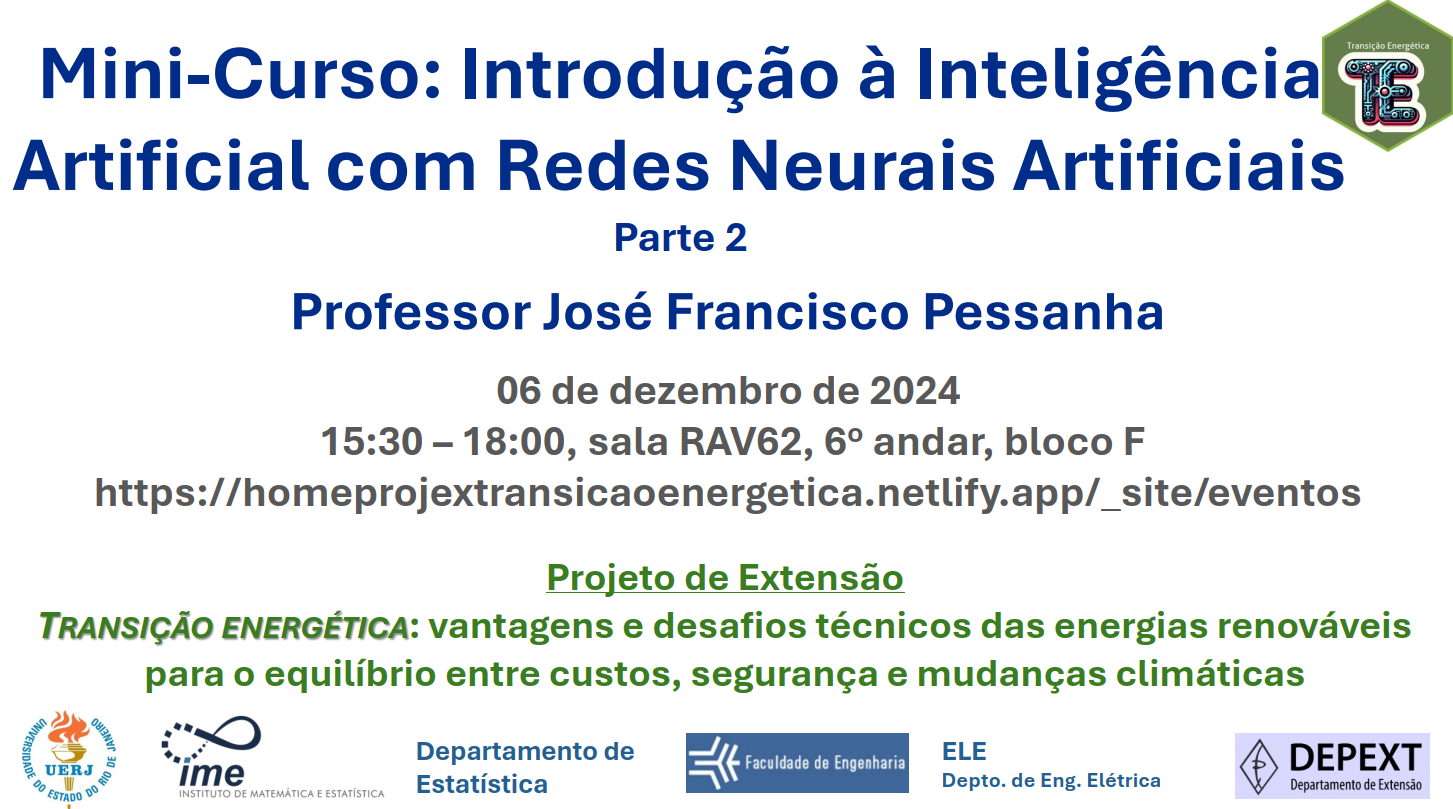
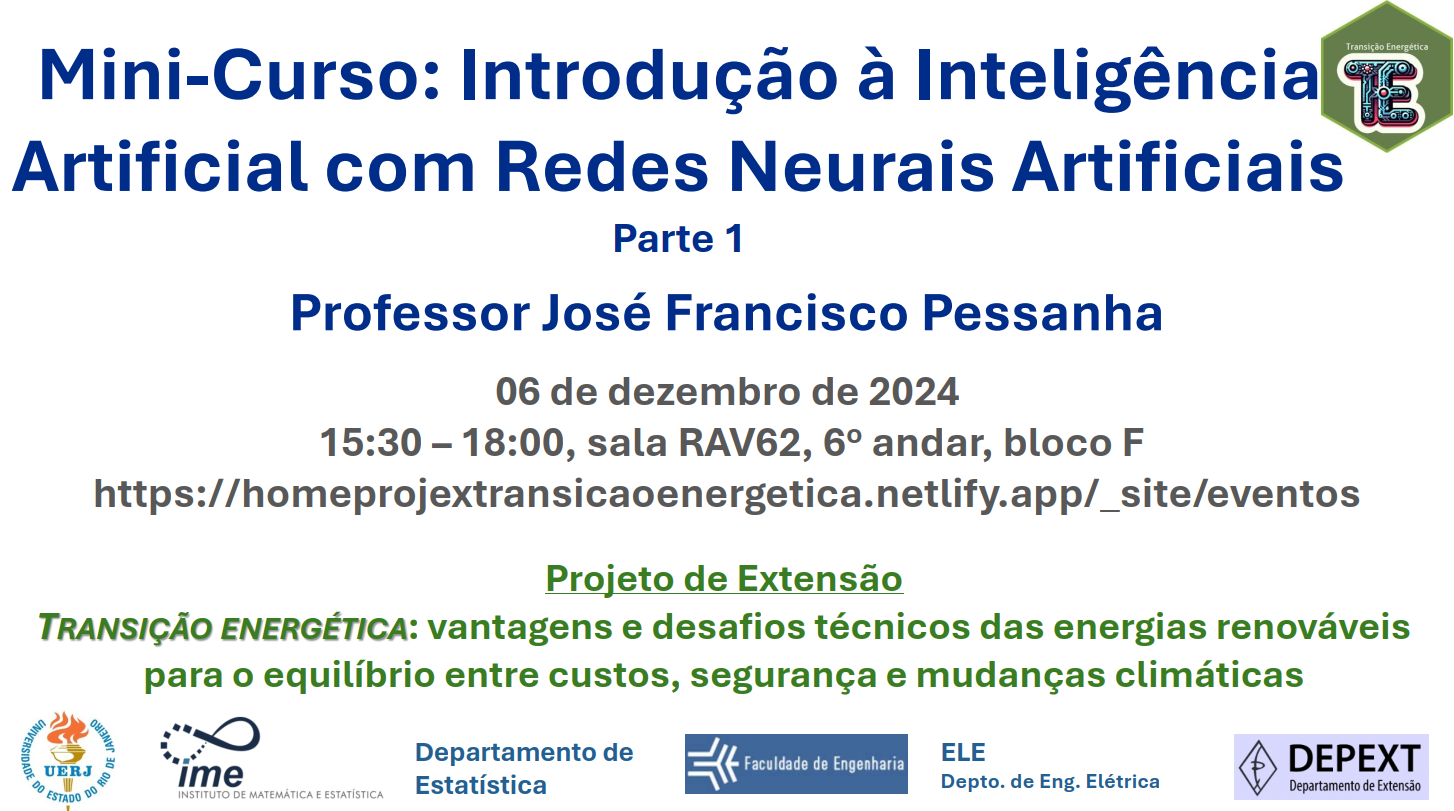
at29-11++

diff --git a/_site/eventos.html b/_site/eventos.html
@@ -208,8 +208,8 @@ ul.task-list li input[type="checkbox"] {
   <ul class="collapse">
   <li><a href="#as-energias-renováveis-intermitentes-e-a-transição-energética---29-de-abril-de-2024" id="toc-as-energias-renováveis-intermitentes-e-a-transição-energética---29-de-abril-de-2024" class="nav-link" data-scroll-target="#as-energias-renováveis-intermitentes-e-a-transição-energética---29-de-abril-de-2024">As energias renováveis intermitentes e a transição energética - 29 de abril de 2024</a></li>
   <li><a href="#metodologias-e-modelos-computacionais-para-o-planejamento-da-expansão-e-da-operação-energética-no-brasil---31-de-outubro-de-2024" id="toc-metodologias-e-modelos-computacionais-para-o-planejamento-da-expansão-e-da-operação-energética-no-brasil---31-de-outubro-de-2024" class="nav-link" data-scroll-target="#metodologias-e-modelos-computacionais-para-o-planejamento-da-expansão-e-da-operação-energética-no-brasil---31-de-outubro-de-2024">Metodologias e Modelos Computacionais para o Planejamento da Expansão e da Operação Energética no Brasil - 31 de outubro de 2024</a></li>
-  <li><a href="#mini-curso-introdução-à-inteligência-artificial-com-redes-neurais-artificiais-parte-1---29-de-novembro-de-2024" id="toc-mini-curso-introdução-à-inteligência-artificial-com-redes-neurais-artificiais-parte-1---29-de-novembro-de-2024" class="nav-link" data-scroll-target="#mini-curso-introdução-à-inteligência-artificial-com-redes-neurais-artificiais-parte-1---29-de-novembro-de-2024">Mini-Curso: Introdução à Inteligência Artificial com Redes Neurais Artificiais Parte 1 - 29 de novembro de 2024</a></li>
-  <li><a href="#mini-curso-introdução-à-inteligência-artificial-com-redes-neurais-artificiais-parte-2---6-de-dezembro-de-2024" id="toc-mini-curso-introdução-à-inteligência-artificial-com-redes-neurais-artificiais-parte-2---6-de-dezembro-de-2024" class="nav-link" data-scroll-target="#mini-curso-introdução-à-inteligência-artificial-com-redes-neurais-artificiais-parte-2---6-de-dezembro-de-2024">Mini-Curso: Introdução à Inteligência Artificial com Redes Neurais Artificiais Parte 2 - 6 de dezembro de 2024</a></li>
+  <li><a href="#mini-curso-introdução-à-inteligência-artificial-com-redes-neurais-artificiais-parte-1---6-de-dezembro-de-2024" id="toc-mini-curso-introdução-à-inteligência-artificial-com-redes-neurais-artificiais-parte-1---6-de-dezembro-de-2024" class="nav-link" data-scroll-target="#mini-curso-introdução-à-inteligência-artificial-com-redes-neurais-artificiais-parte-1---6-de-dezembro-de-2024">Mini-Curso: Introdução à Inteligência Artificial com Redes Neurais Artificiais Parte 1 - 6 de dezembro de 2024</a></li>
+  <li><a href="#section" id="toc-section" class="nav-link" data-scroll-target="#section"></a></li>
   </ul></li>
   </ul>
 </nav>
@@ -254,21 +254,16 @@ ul.task-list li input[type="checkbox"] {
 </figure>
 </div>
 </section>
-<section id="mini-curso-introdução-à-inteligência-artificial-com-redes-neurais-artificiais-parte-1---29-de-novembro-de-2024" class="level3">
-<h3 class="anchored" data-anchor-id="mini-curso-introdução-à-inteligência-artificial-com-redes-neurais-artificiais-parte-1---29-de-novembro-de-2024">Mini-Curso: Introdução à Inteligência Artificial com Redes Neurais Artificiais Parte 1 - 29 de novembro de 2024</h3>
-<div class="quarto-figure quarto-figure-center">
-<figure class="figure">
-<p><img src="images/Evento 29-11-24.png" class="img-fluid quarto-figure quarto-figure-center figure-img"></p>
-</figure>
-</div>
-</section>
-<section id="mini-curso-introdução-à-inteligência-artificial-com-redes-neurais-artificiais-parte-2---6-de-dezembro-de-2024" class="level3">
-<h3 class="anchored" data-anchor-id="mini-curso-introdução-à-inteligência-artificial-com-redes-neurais-artificiais-parte-2---6-de-dezembro-de-2024">Mini-Curso: Introdução à Inteligência Artificial com Redes Neurais Artificiais Parte 2 - 6 de dezembro de 2024</h3>
+<section id="mini-curso-introdução-à-inteligência-artificial-com-redes-neurais-artificiais-parte-1---6-de-dezembro-de-2024" class="level3">
+<h3 class="anchored" data-anchor-id="mini-curso-introdução-à-inteligência-artificial-com-redes-neurais-artificiais-parte-1---6-de-dezembro-de-2024">Mini-Curso: Introdução à Inteligência Artificial com Redes Neurais Artificiais Parte 1 - 6 de dezembro de 2024</h3>
 <div class="quarto-figure quarto-figure-center">
 <figure class="figure">
 <p><img src="images/Evento 6-12-24.png" class="img-fluid quarto-figure quarto-figure-center figure-img"></p>
 </figure>
 </div>
+</section>
+<section id="section" class="level3">
+<h3 class="anchored" data-anchor-id="section"></h3>
 
 
 </section>
